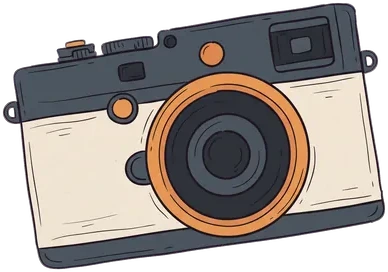
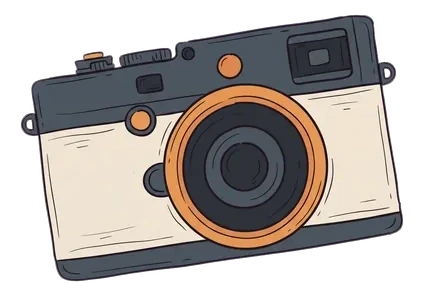
Sfoglia: le icone si pareggiano sull'inchiostro, non sul rettangolo
Il rettangolo non spiegava quello che si vedeva: il pallone e la
chitarra ne occupano uno uguale, ma il pallone e' pieno e la chitarra
e' un filo, e in griglia il pallone sembra il triplo. A pesare e'
l'inchiostro — quanti pixel pieni il disegno copre davvero.

Misurato, le sei che sembravano troppo grosse erano le sei piu'
cariche e la chitarra era la piu' leggera di tutte. Ora
ritaglia_categorie.py mette un tetto sull'inchiostro reso e da' un
bordo trasparente a chi lo supera: il disegno non si tocca, si rende
piu' piccolo in pagina. Il contrario non si puo', i piu' leggeri sono
gia' al massimo che la piastrella concede.

L'immagine passa al centro del suo riquadro, con piu' aria attorno.

E due cose viste da chi lo stava usando: aprendo una categoria si
vedevano per un attimo gli annunci di quella di prima — la griglia ora
si svuota nello stesso istante del tocco —, e il tasto Esplora restava
incastrato nella categoria scelta in Sfoglia, mentre chi tocca il nome
del tab si aspetta tutto il mercatino.

diff --git a/miniapp.html b/miniapp.html
@@ -480,10 +480,15 @@
      estremi ogni disegno scende sui 57px e le piastrelle si svuotano
      — si perde su tutte per pareggiare due casi. */
   .cat-tile .cat-fig{flex:1 1 auto;min-height:0;position:relative;
-    width:57%;margin:4px 8px 7px auto}
+    width:54%;margin:5px 13px 10px auto}
+  /* CENTRATA nel suo riquadro, non incollata all'angolo: i file
+     pareggiati portano un bordo trasparente attorno (vedi
+     ritaglia_categorie.py), e ancorati in basso a destra si
+     sarebbero allontanati dall'angolo chi piu' chi meno. Centrati,
+     stanno tutti allo stesso modo — ed e' anche piu' arioso. */
   .cat-tile .cat-fig img{position:absolute;inset:0;
     width:100%;height:100%;display:block;
-    object-fit:contain;object-position:100% 100%}
+    object-fit:contain;object-position:50% 50%}
   /* Ripiego quando l'immagine non arriva (la DEMO da file://): c'e'
      l'emoji del catalogo, spenta finche' l'img le sta davanti nel
      markup — l'onerror la toglie e il fratello ricompare. E' lo stesso
@@ -2298,7 +2303,7 @@
          per qualcosa che arrivera'. Il Profilo vive nel tasto tappo in
          testata (mobile) e qui in coda solo da desktop -->
     <div class="nav-logo"><img class="brand-jar" src="/assets/barattolo.jpeg" alt="" onerror="this.remove()"><span class="lockup" aria-hidden="true"><span class="bmark">B</span>arattolo<span class="bolt">⚡</span></span></div>
-    <button id="nav-esplora" class="active" onclick="go('esplora')"><span class="ic">🛍</span>Esplora</button>
+    <button id="nav-esplora" class="active" onclick="vaiEsplora()"><span class="ic">🛍</span>Esplora</button>
     <button id="nav-sfoglia" onclick="go('sfoglia')"><span class="ic">🗂</span>Sfoglia</button>
     <button id="nav-vendi" class="sell" onclick="go('vendi')"><span class="ic">＋</span>Vendi</button>
     <button id="nav-affari" onclick="go('affari')"><span class="ic">🤝</span>Ordini<span class="off-dot" id="offDot"></span></button>
@@ -3495,7 +3500,25 @@ function renderSfoglia(){
    cambio di tab — l'indietro deve riportare a Sfoglia. */
 function apriCategoria(c){
   navSpingi = true;
+  /* La griglia si SVUOTA prima di partire: setCat ricarica dal server
+     e la risposta arriva mezzo secondo dopo, quindi senza questo si
+     atterra su Esplora vedendo per un attimo gli annunci di PRIMA —
+     che con una categoria appena scelta e' proprio la cosa sbagliata
+     da mostrare. Meglio un mezzo secondo di vuoto che mezzo secondo
+     di bugia. In DEMO setCat ridisegna subito e non si nota. */
+  el('grid').innerHTML = '';
+  el('gridEmpty').style.display = 'none';
   setCat(c);
+  go('esplora');
+}
+
+/* Il tasto Esplora della barra riporta SEMPRE alla vetrina intera.
+   Non e' la stessa cosa di go('esplora'), che serve anche a tornare
+   indietro da una scheda e li' il filtro deve restare: qui si tocca
+   il nome del tab, e chi lo tocca si aspetta tutto il mercatino, non
+   la categoria in cui era entrato da Sfoglia mezz'ora fa. */
+function vaiEsplora(){
+  if (activeCat !== 'Tutto') { setCat('Tutto'); }
   go('esplora');
 }
 

diff --git a/ritaglia_categorie.py b/ritaglia_categorie.py
@@ -1,23 +1,34 @@
-"""Ritaglia il vuoto attorno alle illustrazioni di Sfoglia.
+"""Prepara le illustrazioni della pagina Sfoglia: le ritaglia e le
+PAREGGIA, cosi' in griglia sembrano tutte della stessa taglia.
 
-PERCHE' ESISTE. Le illustrazioni arrivano come quadrati 512x512 con il
+PERCHE' ESISTE, in due tempi.
+
+1) IL RITAGLIO. Le illustrazioni arrivano come quadrati 512x512 col
 disegno al centro e circa il 30% di margine trasparente attorno. Quel
 margine e' spazio che la piastrella paga: il disegno puo' essere alto
-al massimo quanto la fascia libera sotto il nome, e se un terzo di
-quell'altezza e' vuoto, il disegno si vede piccolo. Ritagliando, la
-stessa fascia contiene un disegno grande un terzo di piu', senza
-togliere niente al nome.
+al massimo quanto la fascia sotto il nome, e se un terzo e' vuoto, il
+disegno si vede piccolo.
+L'alpha si guarda SOPRA UNA SOGLIA e non sopra lo zero: un file
+arrivava con una velatura quasi invisibile stesa su tutta la tela, e
+col confronto a zero risultava gia' tirato mentre il disegno vero ne
+occupava meno di meta'.
 
-E' anche l'INVARIANTE su cui poggia il CSS: la piastrella posa
-l'immagine in un riquadro in basso a destra con object-fit:contain, e
-quel riquadro e' tarato assumendo che l'immagine sia TUTTA disegno. Se
-un file torna ad avere margini, il disegno rimpicciolisce; se il
-ritaglio non venisse fatto affatto, si vedrebbe la differenza subito.
-`prove.py` controlla che i file siano tirati, quindi la CI se ne
-accorge prima della vetrina.
+2) IL PAREGGIO, che e' la parte meno ovvia. Ritagliate e basta, le
+illustrazioni sembrano ancora di taglie diverse — e non per colpa del
+loro rettangolo: un pallone e una chitarra possono occupare lo stesso
+rettangolo, ma il pallone e' pieno e la chitarra e' un filo, quindi il
+pallone «pesa» il triplo. A contare e' l'INCHIOSTRO, cioe' quanti
+pixel pieni il disegno copre davvero. Qui si misura quello e si mette
+un TETTO: chi lo supera riceve un bordo trasparente attorno, che in
+pagina lo rende piu' piccolo senza toccare il disegno.
+Non si puo' fare il contrario — ingrandire i piu' leggeri — perche'
+sono gia' al massimo che la piastrella concede: la chitarra resta la
+piu' leggera, ed e' un limite dichiarato.
 
-Idempotente: rilanciarlo su file gia' ritagliati non fa nulla. Va
-rilanciato quando si aggiunge o si rifa' un'illustrazione.
+Idempotente: rilanciarlo non riscrive nulla se i file sono gia' a
+posto (i WebP sono lossy, e la regola della compressione unica vale
+anche qui). Va rilanciato quando si aggiunge o si rifa'
+un'illustrazione; `prove.py` controlla che il tetto sia rispettato.
 
     python ritaglia_categorie.py            # dice cosa farebbe
     python ritaglia_categorie.py --scrivi   # lo fa
@@ -26,19 +37,36 @@ import os
 import sys
 
 CARTELLA = os.path.join("assets", "categorie")
-QUALITA = 92          # una sola ricompressione, su arte piatta e' invisibile
-# L'alpha si guarda SOPRA una soglia, non sopra lo zero: un file
-# arrivava con una velatura quasi invisibile stesa su tutta la tela, e
-# col confronto a zero il riquadro restava 512x512 — il ritaglio non
-# faceva nulla e quel disegno si vedeva molto piu' piccolo degli altri
-# (era 329x236 dentro il quadrato). Otto su 255 e' sotto il visibile e
-# non intacca l'antialiasing dei bordi: sugli altri 25 file il
-# riquadro cambia di 4px in tutto.
+QUALITA = 92
+# Sotto il visibile, ma sopra l'antialiasing dei bordi: e' la soglia
+# che smaschera la velatura invisibile senza mangiare i contorni.
 SOGLIA_ALPHA = 8
-# Sotto questo scarto non si riscrive: un ritaglio da due pixel non
-# vale una seconda compressione, e cosi' rilanciare lo script non
-# ricomprime ogni volta tutto quanto.
+# Il riquadro del CSS a 360px (.cat-fig: width 54% di 159, e l'altezza
+# che resta sotto il nome). Serve solo a sapere CHI e' limitato in
+# larghezza e chi in altezza — se quelle misure cambiassero di molto,
+# il pareggio andrebbe rifatto.
+BOX_W, BOX_H = 85.9, 69.0
+# Il tetto, in multipli dell'inchiostro MEDIANO: 1.05 lascia stare la
+# meta' piu' leggera e calma solo chi sporge.
+TETTO = 1.05
+# Sotto questo scarto non si riscrive: un ritocco da pochi pixel non
+# vale una seconda compressione.
 MINIMO = .02
+
+
+def _misura(im):
+    """riquadro del disegno, inchiostro e resa nel riquadro del CSS"""
+    from PIL import Image  # noqa: F401  (serve solo al chiamante)
+    a = im.getchannel("A")
+    bb = a.point(lambda v: 255 if v > SOGLIA_ALPHA else 0).getbbox()
+    if bb is None:
+        return None, 0, 0
+    disegno = im.crop(bb)
+    ad = disegno.getchannel("A")
+    inchiostro = sum(n * i for i, n in enumerate(ad.histogram())) / 255.0
+    w, h = disegno.size
+    s = min(BOX_W / w, BOX_H / h)
+    return bb, inchiostro, inchiostro * s * s
 
 
 def main():
@@ -52,35 +80,46 @@ def main():
         print(f"cartella {CARTELLA} assente")
         return 1
 
-    fatti = gia_a_posto = 0
-    for nome in sorted(os.listdir(CARTELLA)):
-        if not nome.endswith(".webp"):
-            continue
-        p = os.path.join(CARTELLA, nome)
-        im = Image.open(p).convert("RGBA")
-        sodo = im.getchannel("A").point(
-            lambda v: 255 if v > SOGLIA_ALPHA else 0)
-        bb = sodo.getbbox()
+    file = sorted(f for f in os.listdir(CARTELLA) if f.endswith(".webp"))
+    misure = {}
+    for nome in file:
+        im = Image.open(os.path.join(CARTELLA, nome)).convert("RGBA")
+        bb, ink, reso = _misura(im)
         if bb is None:
             print(f"  ⚠ {nome}: tutto trasparente, lasciato com'e'")
             continue
-        w, h = im.size
-        scarto = max(bb[0], bb[1], w - bb[2], h - bb[3])
-        if scarto <= MINIMO * max(w, h):
-            gia_a_posto += 1
+        misure[nome] = (im, bb, ink, reso)
+
+    if not misure:
+        return 1
+    resi = sorted(m[3] for m in misure.values())
+    mediana = resi[len(resi) // 2]
+    tetto = mediana * TETTO
+    print(f"inchiostro mediano {mediana:.0f}, tetto {tetto:.0f}\n")
+
+    fatti = fermi = 0
+    for nome, (im, bb, ink, reso) in misure.items():
+        disegno = im.crop(bb)
+        w, h = disegno.size
+        # quanto bordo serve perche' il reso scenda sotto il tetto
+        p = max(1.0, (reso / tetto) ** .5) if tetto else 1.0
+        nw, nh = round(w * p), round(h * p)
+        vecchio = im.size
+        if (abs(nw - vecchio[0]) <= MINIMO * nw
+                and abs(nh - vecchio[1]) <= MINIMO * nh):
+            fermi += 1
             continue
-        prima = os.path.getsize(p) / 1024
-        ritagliata = im.crop(bb)
-        larg = bb[2] - bb[0]
-        alt = bb[3] - bb[1]
-        print(f"  {nome[:-5]:26s} {w}x{h} → {larg}x{alt}"
-              f"   ({100*larg//w}% x {100*alt//h}%)")
+        tela = Image.new("RGBA", (nw, nh), (0, 0, 0, 0))
+        tela.alpha_composite(disegno, ((nw - w) // 2, (nh - h) // 2))
+        quanto = "" if p == 1.0 else f"  −{100*(1-1/p):.0f}% in pagina"
+        print(f"  {nome[:-5]:26s} {vecchio[0]}x{vecchio[1]} → {nw}x{nh}"
+              f"   inchiostro {reso/mediana:.2f}x{quanto}")
         if scrivi:
-            ritagliata.save(p, "WEBP", quality=QUALITA, method=6)
-            print(f"{'':30s}{prima:.0f}KB → {os.path.getsize(p)/1024:.0f}KB")
+            tela.save(os.path.join(CARTELLA, nome), "WEBP",
+                      quality=QUALITA, method=6)
         fatti += 1
 
-    print(f"\n{fatti} da ritagliare, {gia_a_posto} gia' a posto")
+    print(f"\n{fatti} da sistemare, {fermi} gia' a posto")
     if fatti and not scrivi:
         print("niente e' stato scritto: rilancia con --scrivi")
     return 0

diff --git a/prove.py b/prove.py
@@ -381,25 +381,33 @@ def prove_categorie():
     except ImportError:
         print("  · Pillow assente: salto il controllo del ritaglio")
     else:
-        # La soglia dell'alpha e' la stessa di ritaglia_categorie.py, e
-        # NON e' un dettaglio: un file arrivava con una velatura quasi
-        # invisibile su tutta la tela: col confronto a zero risultava
-        # gia' tirato mentre il disegno vero ne occupava meno di meta',
-        # e in vetrina si vedeva piccolo accanto agli altri. Guardare
-        # sopra lo zero qui vorrebbe dire lasciar passare proprio il
-        # caso che questa prova esiste per prendere.
-        larghi = []
+        # Le illustrazioni devono essere PAREGGIATE, cioe' nessuna deve
+        # coprire molto piu' inchiostro delle altre una volta resa in
+        # piastrella (ci pensa ritaglia_categorie.py). Si misura
+        # l'inchiostro e non il rettangolo perche' e' quello che
+        # l'occhio pesa: un pallone e una chitarra possono avere lo
+        # stesso rettangolo, ma il pallone e' pieno e sembra il triplo.
+        # Il tetto e' generoso apposta — qui non si insegue la
+        # perfezione, si prende il file rifatto che sfonda.
+        BOX_W, BOX_H, TETTO = 85.9, 69.0, 1.30
+        resi = {}
         for c in cat:
             p = f"assets/categorie/{slug(c)}.webp"
             if not os.path.exists(p):
                 continue
-            im = Image.open(p).convert("RGBA")
-            w, h = im.size
-            bb = im.getchannel("A").point(lambda v: 255 if v > 8 else 0).getbbox()
-            if bb and max(bb[0], bb[1], w - bb[2], h - bb[3]) > .02 * max(w, h):
-                larghi.append(c)
-        prova("le illustrazioni sono tirate (niente vuoto attorno)",
-              [], larghi)
+            # il file si misura COM'E', bordo trasparente compreso: e'
+            # quello che scala il browser, ed e' proprio quel bordo a
+            # fare il pareggio. Ritagliarlo qui vorrebbe dire annullare
+            # la cosa che si sta verificando (successo per davvero).
+            a = Image.open(p).convert("RGBA").getchannel("A")
+            ink = sum(n * i for i, n in enumerate(a.histogram())) / 255.0
+            s = min(BOX_W / a.size[0], BOX_H / a.size[1])
+            resi[c] = ink * s * s
+        if resi:
+            ordinati = sorted(resi.values())
+            mediana = ordinati[len(ordinati) // 2]
+            prova("nessuna illustrazione pesa piu' delle altre in griglia",
+                  [], [c for c, v in resi.items() if v > mediana * TETTO])
 
 
 # ====================================================================
